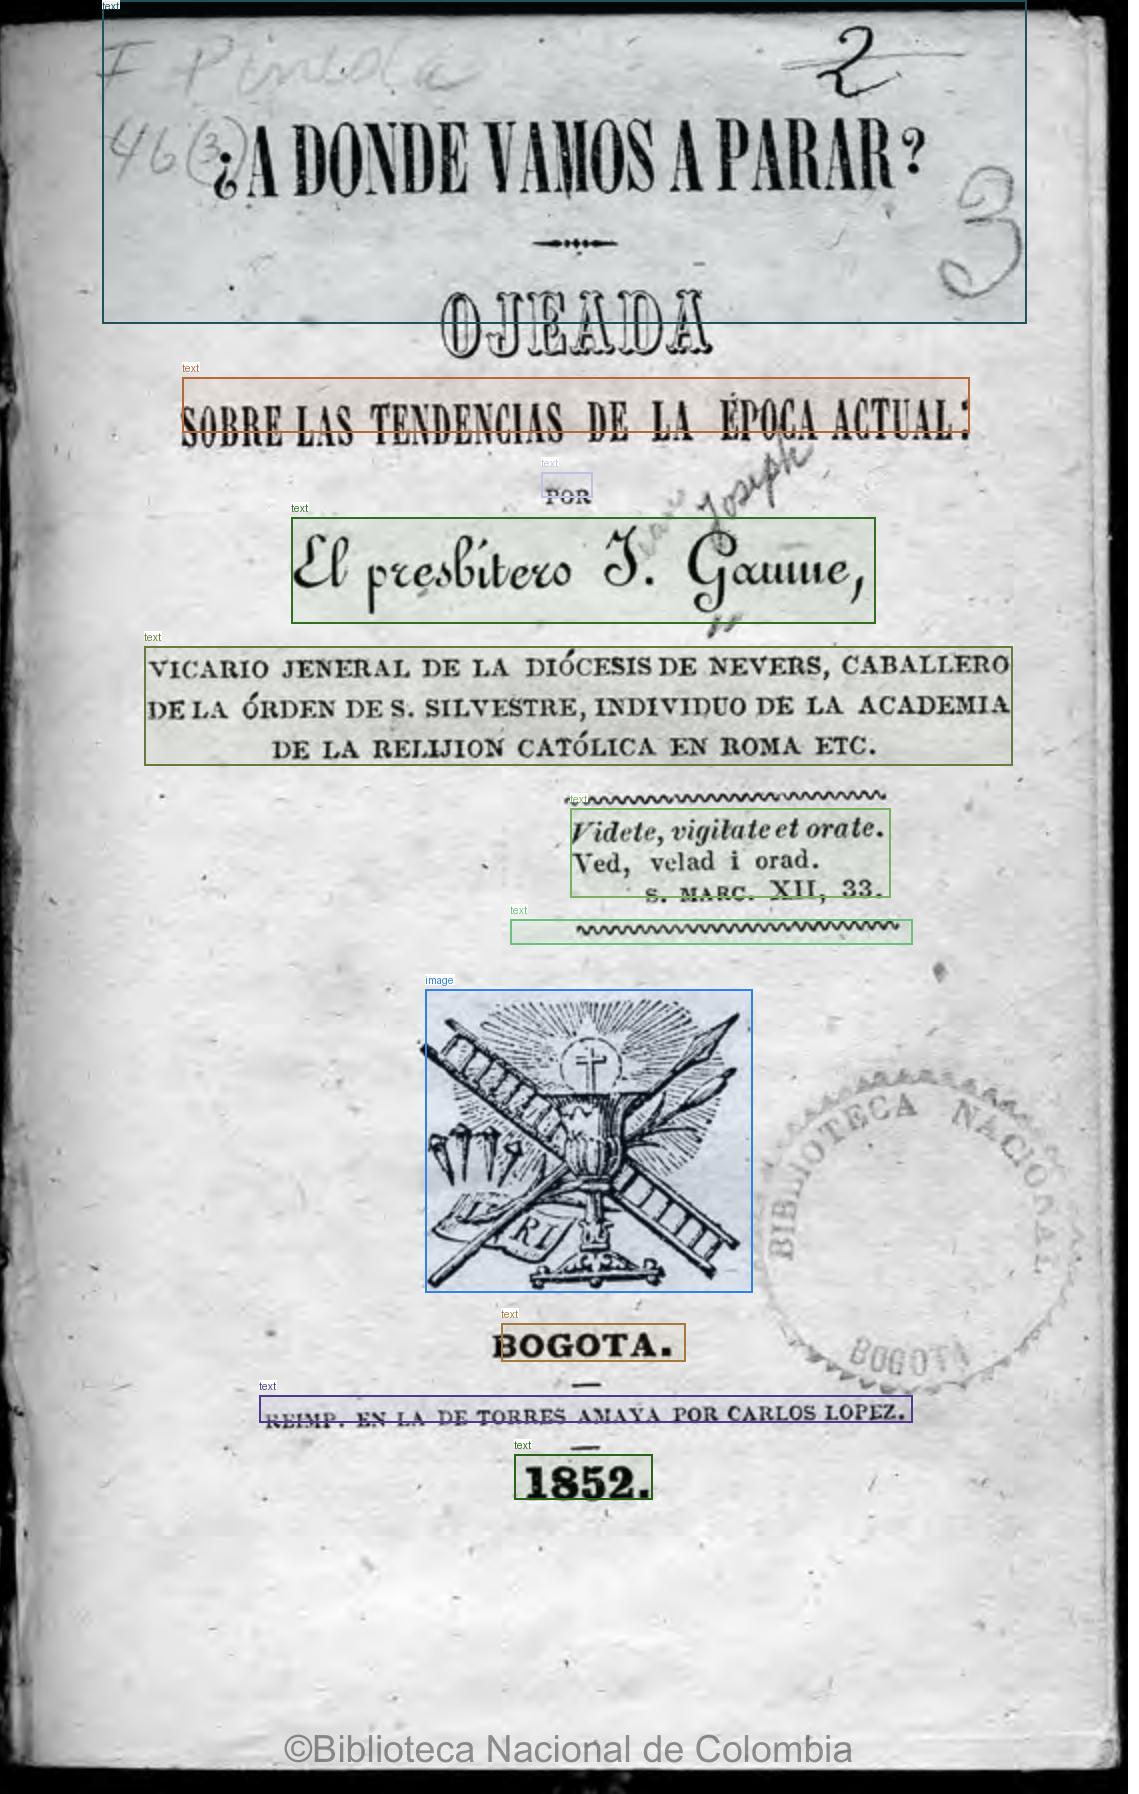
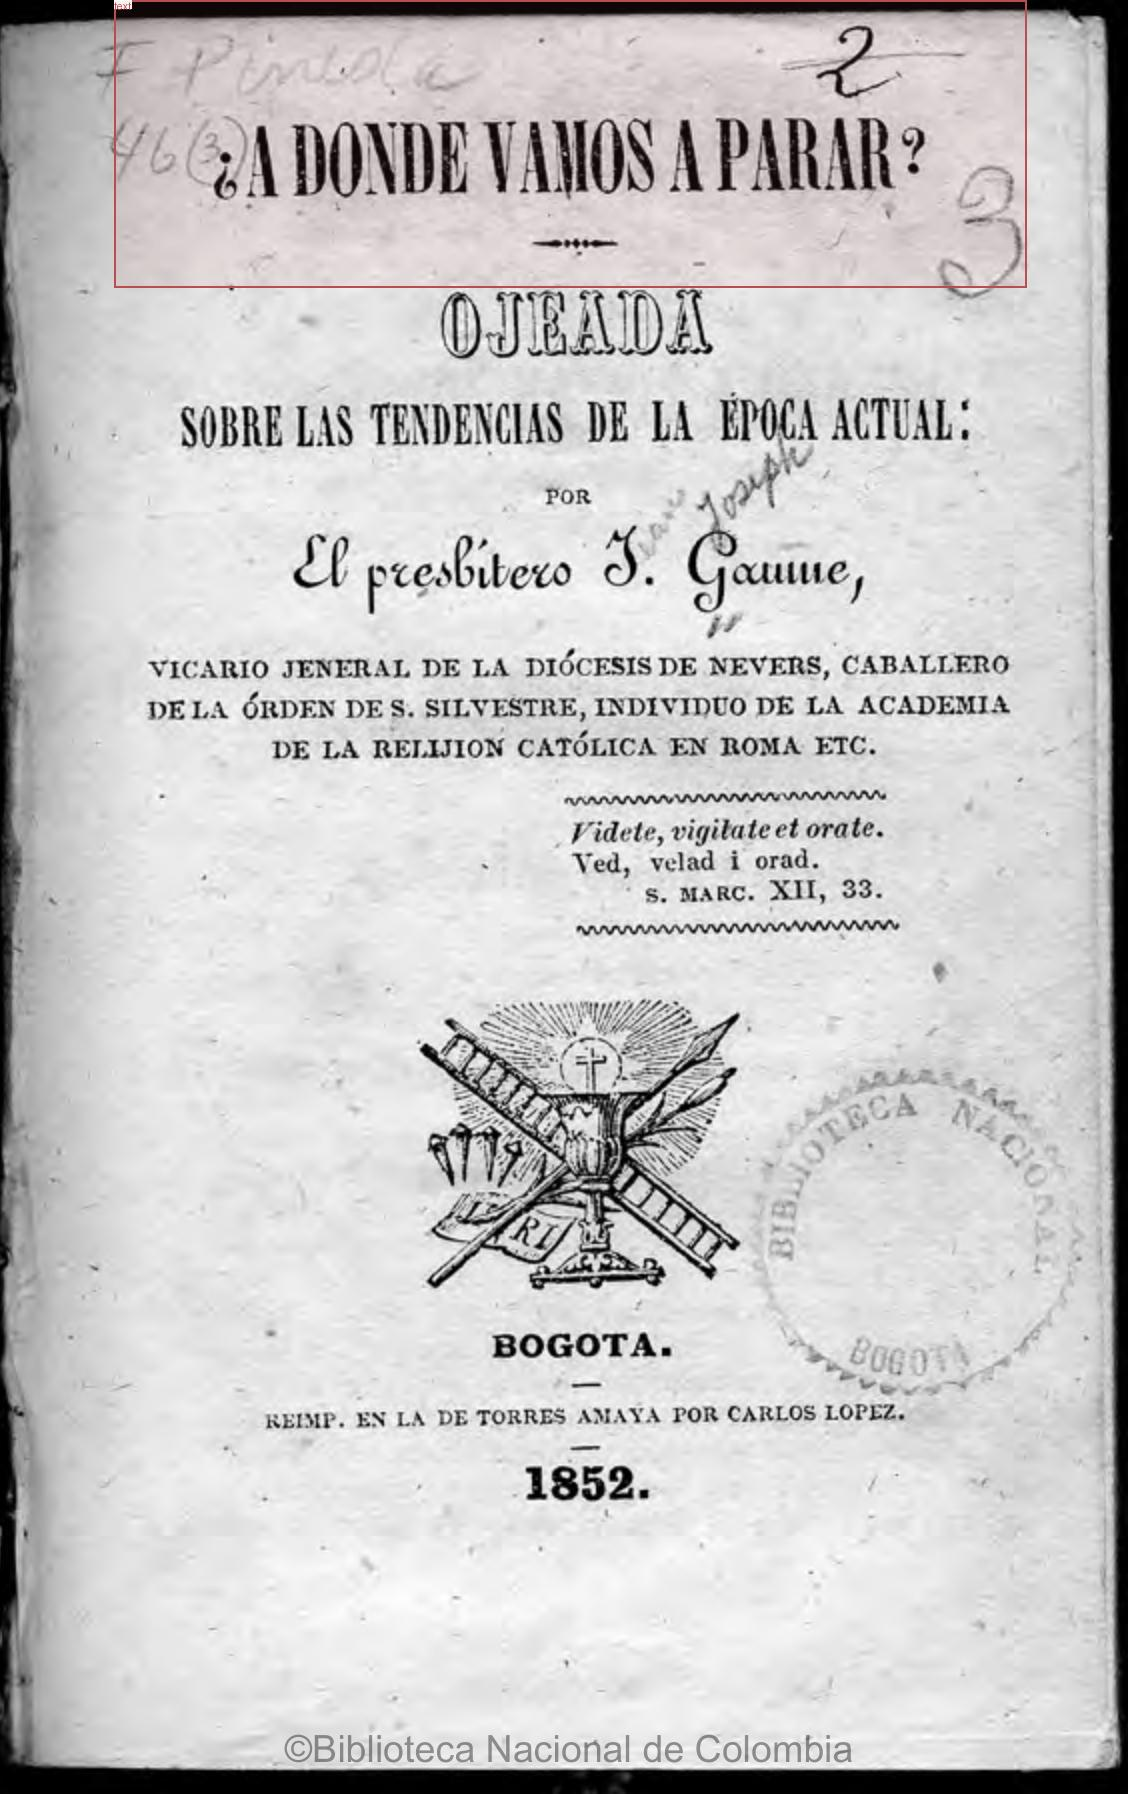
update evaluations and transcriptions for Pineda1

diff --git a/reasonings/DeepSeek-OCR/pineda1_page_4.md b/reasonings/DeepSeek-OCR/pineda1_page_4.md
@@ -1,0 +1,42 @@
+---
+model: deepseek-OCR
+runtime: T4 GPU
+RAM: 9.4 / 12.7 GB
+GPU RAM: 5.6 / 15 GB
+Disk: 49.6 / 112.6 GB
+prompt: Convert the document to text and be as close to the original text as possible (including any typos, print errors, keeping the original grammar and spelling).
+time-reasoning: 60s
+attachement: images/pineda1/pineda1_page_4.png
+image size:  (1125, 1794)
+valid image tokens:  160
+output texts tokens (valid):  744
+compression ratio:  4.65
+---
+
+The attention mask and the pad token id were not set. As a consequence, you may observe unexpected behavior. Please pass your input's `attention_mask` to obtain reliable results.
+Setting `pad_token_id` to `eos_token_id`:None for open-end generation.
+=====================
+BASE:  torch.Size([1, 256, 1280])
+NO PATCHES
+=====================
+1-4-<|end_of_line|>1-4-<|end_of_line|>1-4-<|md_start_of_line|>1-4-<|md_end_of_line|>
+<|ref|>text<|/ref|><|det|>[[78, 70, 830, 151]]<|/det|>
+puede aguardar la sentencia que ha de entregarle inocente. Escúpenle en el rostro, le abofetean, le azotan con varas hasta dejar descubiertas las venas i los huesos: el cuerpo de la víctima no es mas que una llaga de los pies a la cabeza. 
+
+<|ref|>text<|/ref|><|det|>[[78, 153, 830, 313]]<|/det|>
+A la crueldad se junta una mofa insultante. Como el tigre que juega con su presa antes de devorarla, así aquel pueblo bárbaro ultraja al manso cordero ántes de vértet su sangre. Le visten una tónica de escarnio: le ponen en la mano una caña á guisa de ceetro i en la cabeza una corona de espinas en señal de diadema: luego vendándole los ojos doblan la rodilla, le dan fuertes bofetadas en el rostro i le dicen: Dios te guarde, rei de los judíos. 
+
+<|ref|>text<|/ref|><|det|>[[78, 316, 830, 590]]<|/det|>
+¡I este justo era el bienhechor público de la nacion! Entre aquel pueblo de vérdugos no se hallaria uno que no hubiese esperimentado los saludables efectos de la poderosa bondad de él en su persona o en la de los suyos. Purificó á los leprosos, restituyó la vista á los ciegos i el oído á los sordos, libró á los endemoniados, resucitó los muertos, á todos hizo bien i á ninguno mal. Miéntras le conclucan como un vaso de tierra, se mantiene él sereno i lleno de dignidad. Semejante al tierno cordero que es conducido en silencio al matadero, así él se deja llevar al suplicio sin abrir la boca. Conjúranle en el nombre de Dios que hable, i él responde con mansedumbre i verdad. Sus palabras se imputan á crimen, i un bofeton nas es el premio de su obediencia. 
+
+<|ref|>text<|/ref|><|det|>[[78, 594, 830, 810]]<|/det|>
+El justo le recibe i calla. Su resignacion exaspera á los persiguidores, cuyas vociferaciones van en aumento haciendo resonar como un trueno los ecos de la ciudad deicida: Que le erucifiquen: que le crucifiquen; i le llevan brutalmente á empellones ante el juez que puede entre- garles la cabeza del inocente. Este juez es un estranjero un ambicioso, un cobarde; sin embargo le domina la inocencia del acusado i la proclama diciendo: «¡Qué mal ha hecho!--Si no fuera culpable, no te le hubiéramos entregado.--Pues ¡qué mal ha hecho!--Aspira á reinar, i nosotros no queremos que reine sobre nosotros [1].»
+==================================================
+image size:  (1125, 1794)
+valid image tokens:  160
+output texts tokens (valid):  744
+compression ratio:  4.65
+==================================================
+===============save results:===============
+image: 0it [00:00, ?it/s]
+other: 100%|██████████| 4/4 [00:00<00:00, 47259.76it/s]

diff --git a/reasonings/DeepSeek-OCR/pineda1_page_1.md b/reasonings/DeepSeek-OCR/pineda1_page_1.md
@@ -1,0 +1,54 @@
+---
+model: deepseek-OCR
+runtime: T4 GPU
+RAM: 9.4 / 12.7 GB
+GPU RAM: 5.6 / 15 GB
+Disk: 49.6 / 112.6 GB
+prompt: Convert the document to text and be as close to the original text as possible (including any typos, print errors, keeping the original grammar and spelling).
+time-reasoning: ?
+attachement: images/pineda1/pineda1_page_1.png
+image size:  (1139, 1794)
+valid image tokens:  162
+output texts tokens (valid):  186
+compression ratio:  1.15
+---
+
+The attention mask and the pad token id were not set. As a consequence, you may observe unexpected behavior. Please pass your input's `attention_mask` to obtain reliable results.
+Setting `pad_token_id` to `eos_token_id`:None for open-end generation.
+=====================
+BASE:  torch.Size([1, 256, 1280])
+NO PATCHES
+=====================
+2
+<|ref|>text<|/ref|><|det|>[[100, 0, 900, 160]]<|/det|>
+¿A DONDE VAMOS A PARAR?
+O JEAADA 
+
+SOBRE LAS TENDENCIAS DE LA ÉPOCA ACTUAL:
+
+FOR 
+
+El presidente S. Gaume, 
+
+VICARIO JENERAL DE LA DIÓCESIS DE NEVERS, CABALLERO 
+DE LA ORDEN DE S. SILVESTRE, INDIVIDUO DE LA ACADEMIA 
+DE LA RELIÓN CATÓLICA EN ROMA ETC. 
+
+Videte, vigilate et orate. 
+Ved, velad i orad. 
+S. MARC. XII, 33. 
+
+BOGOTA. 
+
+REIMP. EN LA DE TORRES AMAYA POR CARLOS LOPEZ. 
+
+1852.
+==================================================
+image size:  (1139, 1794)
+valid image tokens:  162
+output texts tokens (valid):  186
+compression ratio:  1.15
+==================================================
+===============save results:===============
+image: 0it [00:00, ?it/s]
+other: 100%|██████████| 1/1 [00:00<00:00, 14364.05it/s]
